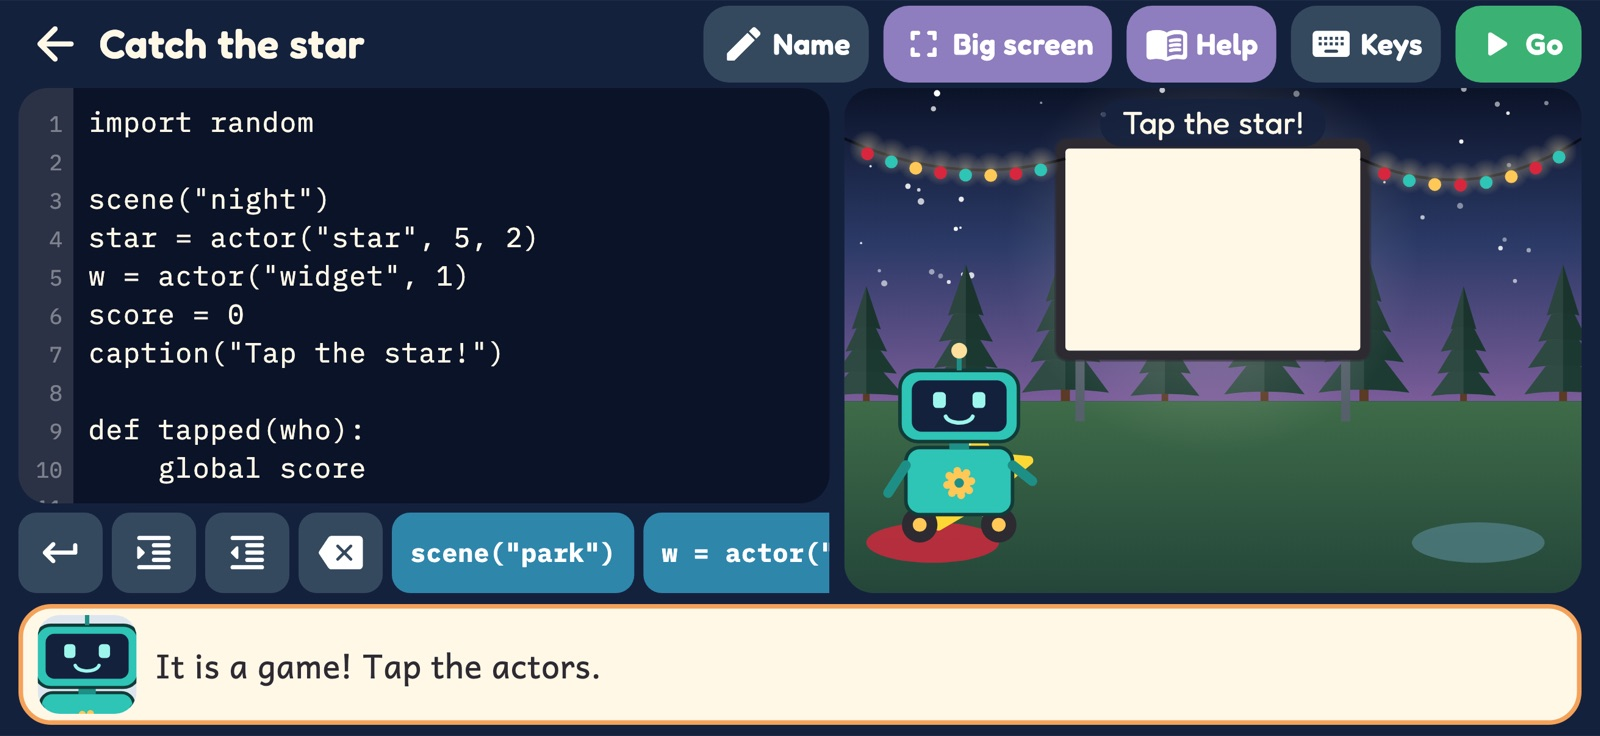
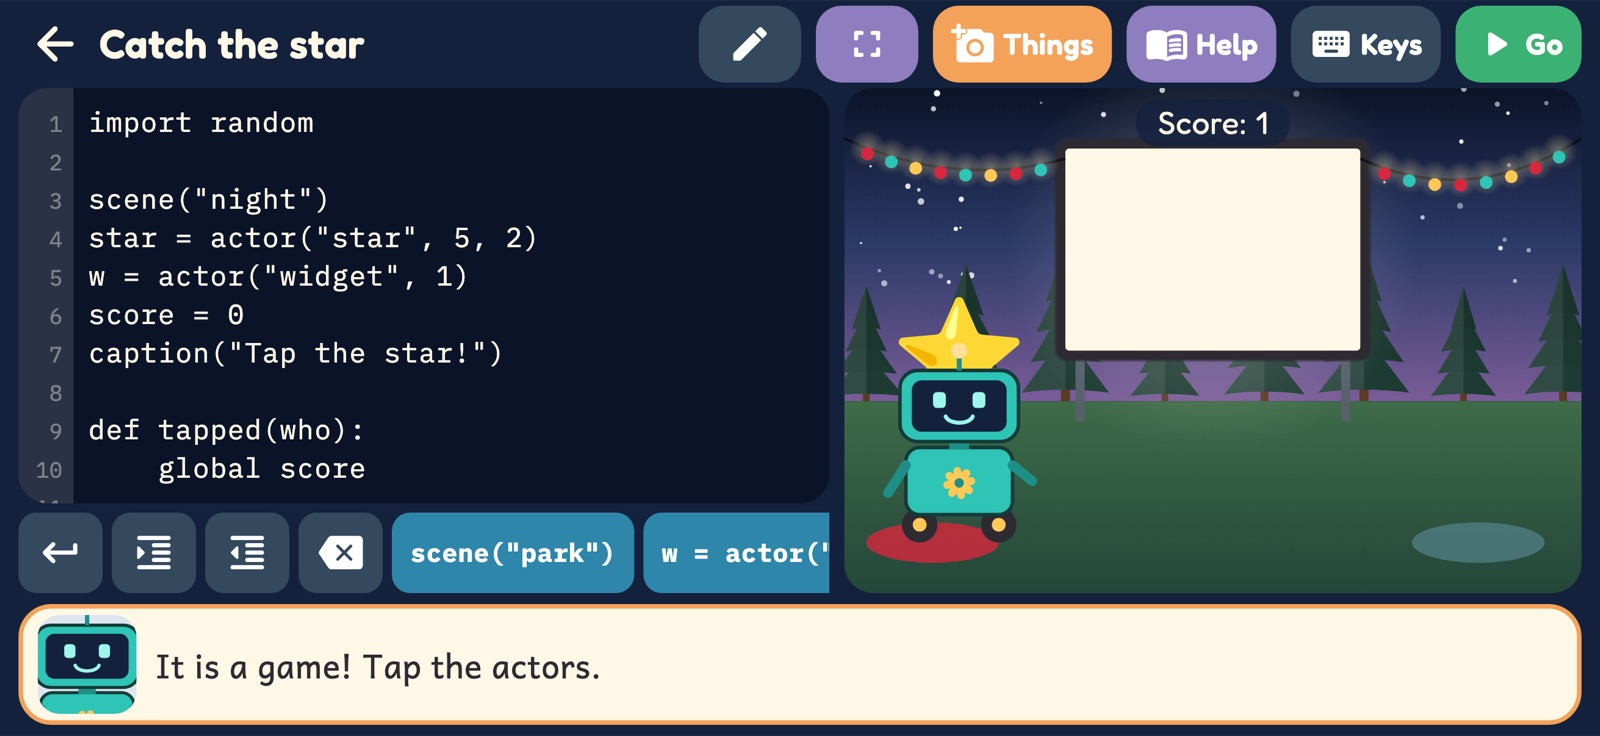
Add the game studio, and say how the camera, photos and microphone are used
The privacy page no longer says the app uses no camera or microphone: a kid can
make pictures and sounds for her games, kept on the device only. The home page
gains a section on building games; support gains three answers.

diff --git a/index.html b/index.html
@@ -165,10 +165,10 @@
       <p>The last stop is the Movie Studio. Pick a scene, put actors in it, and tell them what to
         say and do. Her own movie plays at Movie Night, and then the Studio is hers.</p>
       <ul>
-        <li>Ten places, the whole cast, twenty props and animals, or any emoji.</li>
+        <li>Fifteen places, the whole cast, about fifty props and animals, or any emoji.</li>
         <li>Actors say their lines out loud, move, jump, spin, grow and hide.</li>
         <li>Add a function called <em>tapped</em> and the movie turns into a game.</li>
-        <li>Six starters to change and make her own.</li>
+        <li>Eight starters to change and make her own.</li>
       </ul>
 <div class="code">scene(<span class="s">"night"</span>)
 w = actor(<span class="s">"widget"</span>)
@@ -182,6 +182,35 @@ c.say(<span class="s">"Meow!"</span>)
     <figure>
       <img class="shot" src="img/movie.jpg" alt="A movie in code: five lines of Python on the left, and on the right Widget in front of a glass house asking 'Is that a cat?' with a cat beside him" loading="lazy">
       <img class="shot small" src="img/game.jpg" alt="A tap game: Python with a tapped function on the left, a star to catch on the right, and 'Score: 1'" loading="lazy">
+    </figure>
+  </div>
+
+  <div class="feature flip" id="games">
+    <div>
+      <p class="kicker">The game studio</p>
+      <h2>Then build a game.</h2>
+      <p>In the Studio, pick a place, add actors and drag them to where they start. Press
+        <em>Make it!</em> and the game writes that picture down as Python, with a pad that moves
+        the player. Then the code is hers to read and change.</p>
+      <ul>
+        <li>A pad on the screen, or the arrow keys and W, A, S and D on a keyboard.</li>
+        <li><em>pressed</em>, <em>touched</em> and <em>tick</em>: code that runs when a button goes down, when two actors bump, and as the clock ticks.</li>
+        <li>Her own actors and places, from the camera or a photo, and her own sounds, from the microphone. They stay on the device.</li>
+        <li>The Python Trail is not needed first: the Studio opens on the hill.</li>
+      </ul>
+<div class="code"><span class="k">def</span> pressed(key):
+    <span class="k">if</span> key == <span class="s">"right"</span>:
+        w.move(<span class="s">1</span>)
+    <span class="k">if</span> key == <span class="s">"a"</span>:
+        w.jump()
+
+<span class="k">def</span> touched(a, b):
+    sound(<span class="s">"ding"</span>)</div>
+    </div>
+    <figure>
+      <img class="shot" src="img/pad-game.jpg" alt="A pad game: Python with a pressed function on the left, and on the right Widget and a star on a playfield, with a pad of four arrows and an A button" loading="lazy">
+      <img class="shot small" src="img/builder.jpg" alt="The game builder: a park with a girl, a dog and a cat placed on it, and buttons to pick a place, add an actor and make the game" loading="lazy">
+      <img class="shot small" src="img/things.jpg" alt="The shelf of actors: a button to make my own, then Widget, the cast, a cat, a dog and more" loading="lazy">
     </figure>
   </div>
 
@@ -231,7 +260,9 @@ c.say(<span class="s">"Meow!"</span>)
     </figure>
     <p><strong>Hints come in steps.</strong> The first is a nudge. The second shows where to look. The third shows
       one whole way to do it, for her to read and build herself. And the <strong>Help Book</strong> has a page, with
-      code to run and change, for every piece of Python the game knows: 44 of them, from print to classes.</p>
+      code to run and change, for every piece of Python the game knows: 49 of them, from print to classes and games.</p>
+    <p>The last lesson, in the Studio, is about <strong>coding with an AI helper</strong>: you say what you want, it
+      writes code made of the same ideas, it can be wrong, and you are still the coder. (There is no AI in the game.)</p>
   </section>
 
   <section class="grownups" id="grownups">
@@ -271,7 +302,8 @@ c.say(<span class="s">"Meow!"</span>)
       <div class="card">
         <h3>🔒 Private by design</h3>
         <p>No ads, accounts, analytics or tracking, and the app never goes online. Everything she
-          writes is saved only on the device. <a href="privacy.html">Privacy policy</a></p>
+          writes, and any picture or sound she makes for a game, is saved only on the device.
+          <a href="privacy.html">Privacy policy</a></p>
       </div>
       <div class="card">
         <h3>🏙 A real neighborhood</h3>

diff --git a/privacy.html b/privacy.html
@@ -40,9 +40,18 @@
       Studio), their progress, stars, and the voice and music switches are saved only in the
       app's private storage on your device. They never leave it, and nobody else can read them.</p>
 
+    <h3>Pictures and sounds for her games</h3>
+    <p>In the Studio, your child can make an actor or a place for a game from a picture, taken with
+      the camera or picked from your photos, and a sound with the microphone. The app uses the
+      camera, the photo picker and the microphone only at that moment, when the button is pressed.
+      The picture or sound is saved only in the app's private storage on your device, next to the
+      game it is for. It is never uploaded, shared or looked at by anyone, and it is deleted when
+      your child throws it away or the app is removed.</p>
+
     <h3>The code she writes</h3>
     <p>Programs written in the app are run by the app itself, on the device. They can't reach the
-      internet, files, the camera or anything else outside the game. The app doesn't download or
+      internet, files, the camera, the microphone or anything else outside the game; a program can
+      only show the pictures and play the sounds already made in the Studio. The app doesn't download or
       run code from anywhere.</p>
 
     <h3>The keyboard</h3>
@@ -52,15 +61,17 @@
 
     <h3>Voices</h3>
     <p>The characters' lines are read aloud by your device's built-in speech voice. Capitol Hill Coding hands the words to that voice on the device and doesn't record or send
-      anything. The app never listens: it doesn't use the microphone.</p>
+      anything. The app never listens by itself: the microphone is used only while your child is
+      recording a sound for a game (see above).</p>
 
     <h3>Purchases</h3>
     <p>The app has no ads and nothing for sale inside it. If that ever changes, the App Store or
       Google Play would handle any payment, and this page would be updated first.</p>
 
     <h3>Permissions</h3>
-    <p>None. Capitol Hill Coding doesn't use the camera, microphone, photos, location,
-      contacts or internet.</p>
+    <p>The camera, the photo picker and the microphone, each asked for the first time your child
+      makes a picture or a sound for a game. You can say no, and the rest of the game works the
+      same. Capitol Hill Coding doesn't use location, contacts or the internet.</p>
 
     <h3>Children's privacy</h3>
     <p>Because we collect no personal information, there is nothing for us to review, share or

diff --git a/support.html b/support.html
@@ -75,9 +75,24 @@
       The Name button renames one, and Big screen plays it full size.</p>
 
     <h3>How do I make a game?</h3>
-    <p>Start from one of the game starters in the Studio. A program with a function called
-      tapped, written <em>def tapped(who):</em>, runs that function every time an actor is
-      tapped, with the actor's name in <em>who</em>.</p>
+    <p>In the Studio, press Build a game: pick a place, add actors, drag them to where they
+      start and press Make it! The game writes the code, and the first actor moves with the pad.
+      Or start from one of the game starters. A game is a program with one of these functions:
+      <em>def tapped(who):</em> (an actor was tapped), <em>def pressed(key):</em> (the pad, or the
+      arrow keys and W, A, S, D on a keyboard), <em>def touched(a, b):</em> (two actors bumped) or
+      <em>def tick():</em> (again and again, for things that move by themselves). The Help Book
+      has a page on each.</p>
+
+    <h3>Can she use her own pictures and sounds?</h3>
+    <p>Yes. In the Studio, open Actors, places and sounds and press make my own. An actor or a
+      place comes from the camera or one of your photos; a sound comes from the microphone. Give
+      it a name, and her code uses that name, like <em>actor("rex")</em>.</p>
+
+    <h3>Why does it ask for the camera, photos or microphone?</h3>
+    <p>Only for that: making a picture or a sound for a game, at the moment she presses the
+      button. What she makes stays in the app on your device and is never sent anywhere. If you
+      say no, everything else works the same; you can change it later in your device's
+      Settings.</p>
 
     <h3>We stopped in the middle of a level.</h3>
     <p>Nothing is lost. The program for every level is saved as it is typed, and is there when
